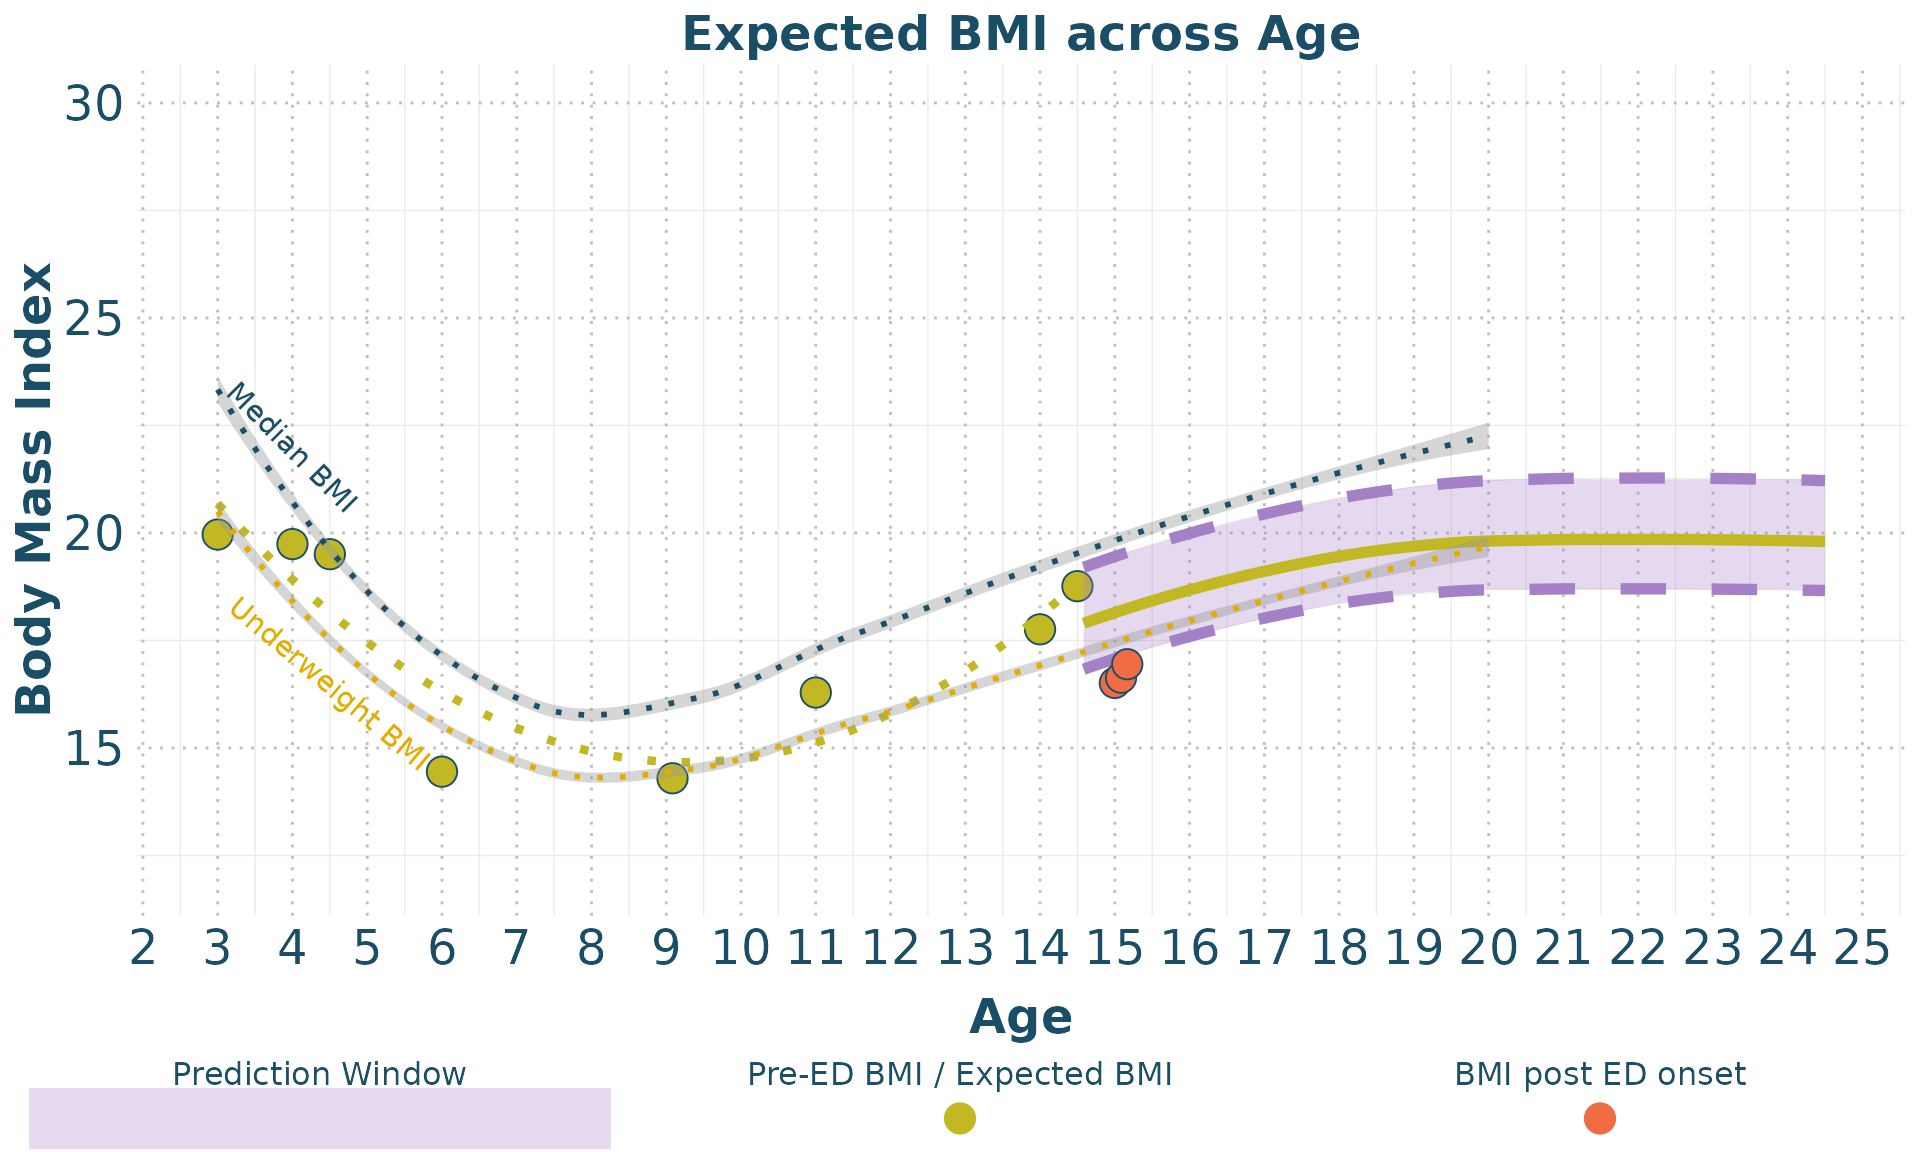
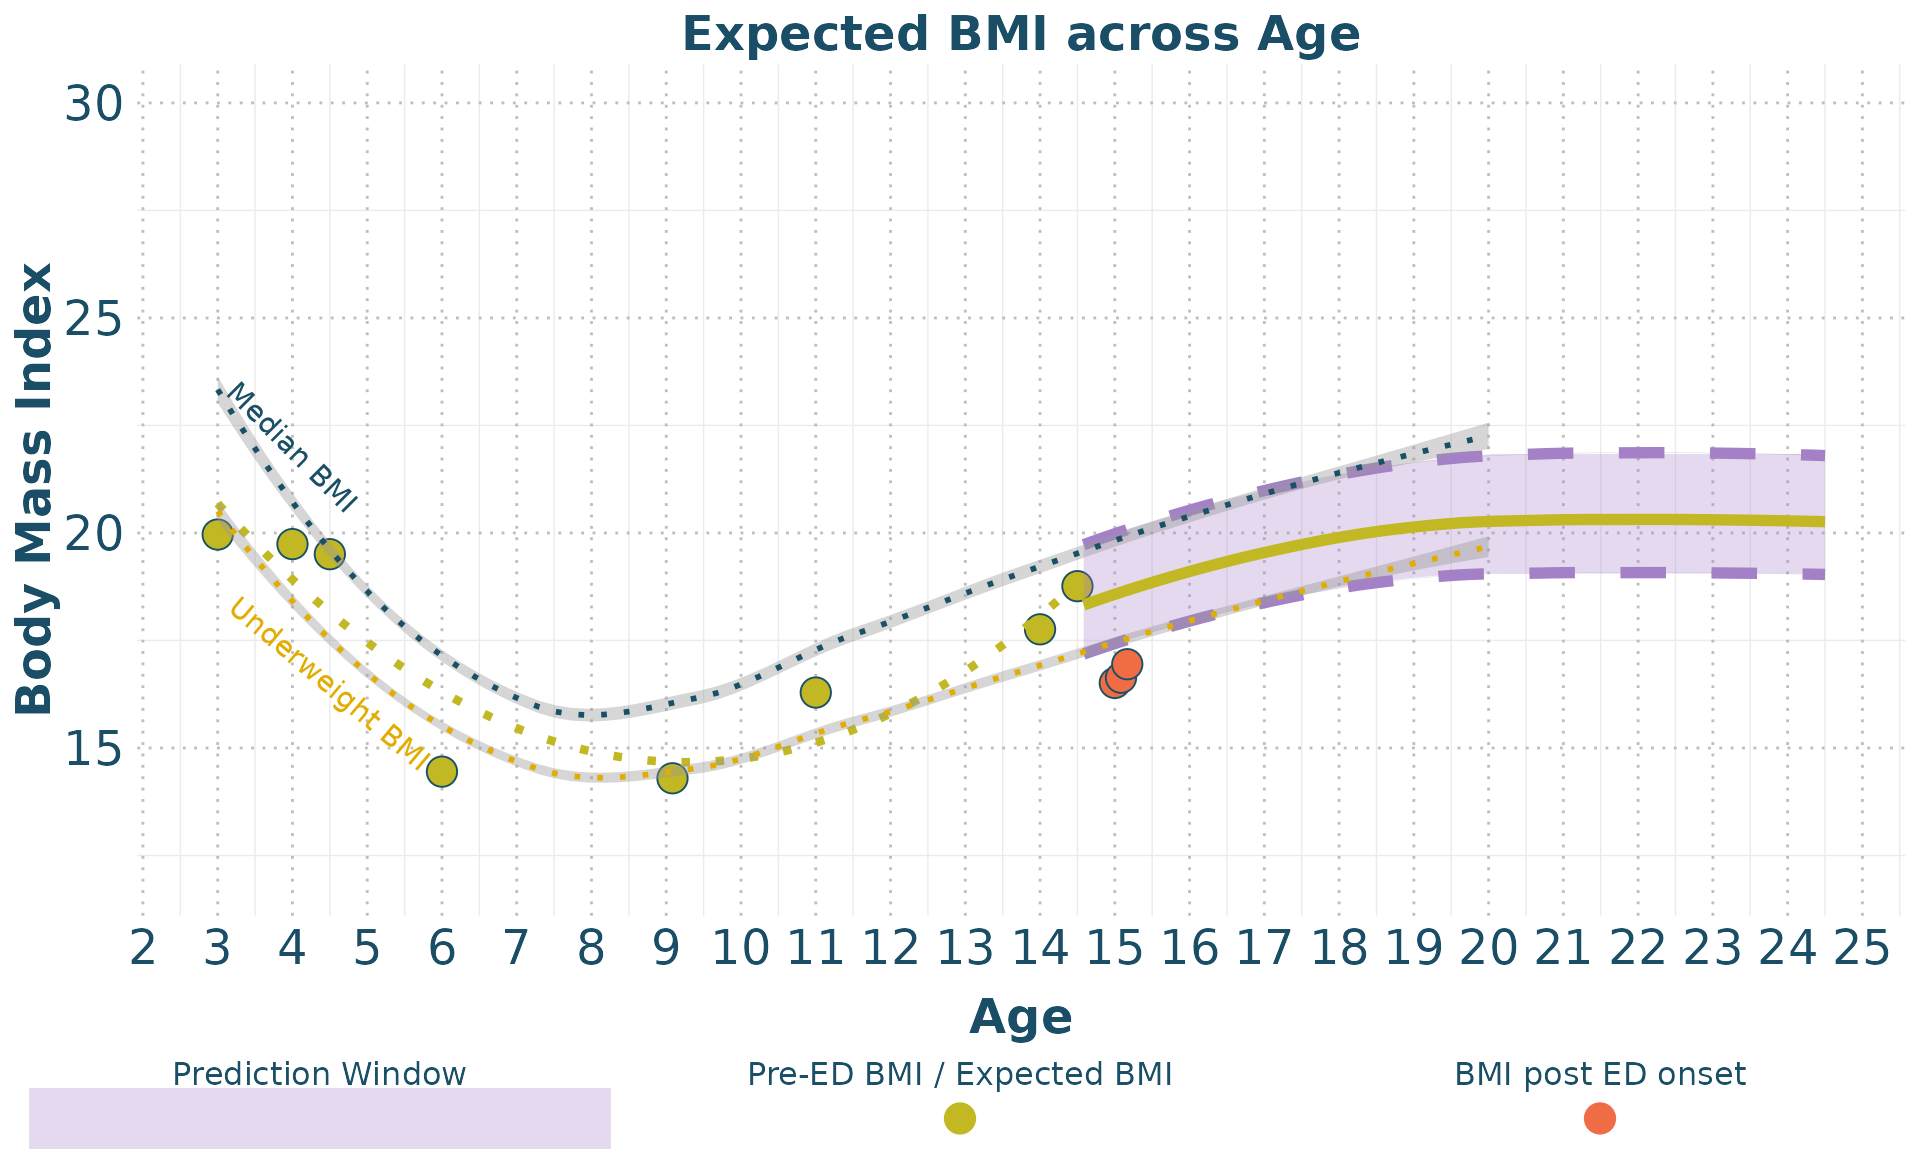
Deploying to gh-pages from @ embark-lab/TeenGrowth@1974166ebf40d8561dedec405221f64b2254ccdf 🚀

Changed region(s): [[0.5625, 0.375, 0.9688, 0.5938]]

diff --git a/articles/Vignette.html b/articles/Vignette.html
@@ -106,7 +106,7 @@ interval.</p>
 <div class="sourceCode" id="cb2"><pre class="downlit sourceCode r">
 <code class="sourceCode R"><span><span class="va">BMI_forecast</span> <span class="op">&lt;-</span> <span class="fu"><a href="../reference/forecast_bmi.html">forecast_bmi</a></span><span class="op">(</span></span>
 <span>             data <span class="op">=</span> <span class="va">clean_data</span>, </span>
-<span>             central_value <span class="op">=</span> <span class="st">"mean"</span>,</span>
+<span>             central_value <span class="op">=</span> <span class="st">"mean+most_recent"</span>,</span>
 <span>             ci <span class="op">=</span> <span class="fl">95</span><span class="op">)</span></span></code></pre></div>
 </div>
 <div class="section level3">
@@ -148,123 +148,123 @@ age intervals) for expected BMI and Weight</p>
 <tbody>
 <tr class="odd">
 <td align="right">15.0</td>
-<td align="left">18.2 (17.1, 19.5)</td>
-<td align="left">119.4 (112.4, 128)</td>
-<td align="left">54.2 (51, 58.1)</td>
+<td align="left">18.6 (17.4, 20)</td>
+<td align="left">122.2 (114.7, 131.5)</td>
+<td align="left">55.4 (52, 59.6)</td>
 </tr>
 <tr class="even">
 <td align="right">15.5</td>
-<td align="left">18.4 (17.3, 19.7)</td>
-<td align="left">121.1 (114, 129.7)</td>
-<td align="left">54.9 (51.7, 58.9)</td>
+<td align="left">18.8 (17.7, 20.3)</td>
+<td align="left">123.9 (116.4, 133.3)</td>
+<td align="left">56.2 (52.8, 60.4)</td>
 </tr>
 <tr class="odd">
 <td align="right">16.0</td>
-<td align="left">18.7 (17.6, 20)</td>
-<td align="left">122.7 (115.6, 131.4)</td>
-<td align="left">55.7 (52.4, 59.6)</td>
+<td align="left">19.1 (17.9, 20.5)</td>
+<td align="left">125.6 (117.9, 134.9)</td>
+<td align="left">57 (53.5, 61.2)</td>
 </tr>
 <tr class="even">
 <td align="right">16.5</td>
-<td align="left">18.9 (17.8, 20.2)</td>
-<td align="left">124.2 (117.1, 133)</td>
-<td align="left">56.3 (53.1, 60.3)</td>
+<td align="left">19.3 (18.2, 20.8)</td>
+<td align="left">127.1 (119.4, 136.5)</td>
+<td align="left">57.6 (54.2, 61.9)</td>
 </tr>
 <tr class="odd">
 <td align="right">17.0</td>
-<td align="left">19.1 (18, 20.4)</td>
-<td align="left">125.6 (118.4, 134.4)</td>
-<td align="left">57 (53.7, 61)</td>
+<td align="left">19.5 (18.4, 21)</td>
+<td align="left">128.5 (120.8, 138)</td>
+<td align="left">58.3 (54.8, 62.6)</td>
 </tr>
 <tr class="even">
 <td align="right">17.5</td>
-<td align="left">19.3 (18.2, 20.6)</td>
-<td align="left">126.9 (119.7, 135.7)</td>
-<td align="left">57.5 (54.3, 61.5)</td>
+<td align="left">19.7 (18.6, 21.2)</td>
+<td align="left">129.7 (122, 139.3)</td>
+<td align="left">58.9 (55.4, 63.2)</td>
 </tr>
 <tr class="odd">
 <td align="right">18.0</td>
-<td align="left">19.5 (18.4, 20.8)</td>
-<td align="left">128 (120.7, 136.8)</td>
-<td align="left">58 (54.8, 62.1)</td>
+<td align="left">19.9 (18.7, 21.4)</td>
+<td align="left">130.9 (123.1, 140.5)</td>
+<td align="left">59.4 (55.8, 63.7)</td>
 </tr>
 <tr class="even">
 <td align="right">18.5</td>
-<td align="left">19.6 (18.5, 21)</td>
-<td align="left">128.9 (121.6, 137.8)</td>
-<td align="left">58.5 (55.2, 62.5)</td>
+<td align="left">20 (18.9, 21.5)</td>
+<td align="left">131.8 (124, 141.5)</td>
+<td align="left">59.8 (56.3, 64.2)</td>
 </tr>
 <tr class="odd">
 <td align="right">19.0</td>
-<td align="left">19.7 (18.6, 21.1)</td>
-<td align="left">129.6 (122.3, 138.6)</td>
-<td align="left">58.8 (55.5, 62.9)</td>
+<td align="left">20.2 (19, 21.6)</td>
+<td align="left">132.5 (124.7, 142.3)</td>
+<td align="left">60.1 (56.6, 64.6)</td>
 </tr>
 <tr class="even">
 <td align="right">19.5</td>
-<td align="left">19.8 (18.7, 21.2)</td>
-<td align="left">130.1 (122.7, 139.3)</td>
-<td align="left">59 (55.7, 63.2)</td>
+<td align="left">20.2 (19, 21.7)</td>
+<td align="left">133.1 (125.2, 143)</td>
+<td align="left">60.4 (56.8, 64.9)</td>
 </tr>
 <tr class="odd">
 <td align="right">20.0</td>
-<td align="left">19.8 (18.7, 21.2)</td>
-<td align="left">130.4 (122.9, 139.7)</td>
-<td align="left">59.1 (55.7, 63.4)</td>
+<td align="left">20.3 (19.1, 21.8)</td>
+<td align="left">133.4 (125.3, 143.6)</td>
+<td align="left">60.5 (56.9, 65.1)</td>
 </tr>
 <tr class="even">
 <td align="right">20.5</td>
-<td align="left">19.8 (18.7, 21.2)</td>
-<td align="left">130.4 (122.9, 139.8)</td>
-<td align="left">59.2 (55.7, 63.4)</td>
+<td align="left">20.3 (19.1, 21.8)</td>
+<td align="left">133.5 (125.4, 143.6)</td>
+<td align="left">60.5 (56.9, 65.1)</td>
 </tr>
 <tr class="odd">
 <td align="right">21.0</td>
-<td align="left">19.8 (18.7, 21.2)</td>
-<td align="left">130.4 (122.9, 139.8)</td>
-<td align="left">59.2 (55.7, 63.4)</td>
+<td align="left">20.3 (19.1, 21.8)</td>
+<td align="left">133.5 (125.4, 143.6)</td>
+<td align="left">60.5 (56.9, 65.1)</td>
 </tr>
 <tr class="even">
 <td align="right">21.5</td>
-<td align="left">19.8 (18.7, 21.2)</td>
-<td align="left">130.4 (122.9, 139.8)</td>
-<td align="left">59.2 (55.7, 63.4)</td>
+<td align="left">20.3 (19.1, 21.8)</td>
+<td align="left">133.5 (125.4, 143.6)</td>
+<td align="left">60.5 (56.9, 65.1)</td>
 </tr>
 <tr class="odd">
 <td align="right">22.0</td>
-<td align="left">19.8 (18.7, 21.2)</td>
-<td align="left">130.4 (122.9, 139.8)</td>
-<td align="left">59.2 (55.7, 63.4)</td>
+<td align="left">20.3 (19.1, 21.8)</td>
+<td align="left">133.5 (125.4, 143.6)</td>
+<td align="left">60.5 (56.9, 65.1)</td>
 </tr>
 <tr class="even">
 <td align="right">22.5</td>
-<td align="left">19.8 (18.7, 21.2)</td>
-<td align="left">130.4 (122.9, 139.8)</td>
-<td align="left">59.2 (55.7, 63.4)</td>
+<td align="left">20.3 (19.1, 21.8)</td>
+<td align="left">133.5 (125.4, 143.6)</td>
+<td align="left">60.5 (56.9, 65.1)</td>
 </tr>
 <tr class="odd">
 <td align="right">23.0</td>
-<td align="left">19.8 (18.7, 21.2)</td>
-<td align="left">130.4 (122.9, 139.8)</td>
-<td align="left">59.2 (55.7, 63.4)</td>
+<td align="left">20.3 (19.1, 21.8)</td>
+<td align="left">133.5 (125.4, 143.6)</td>
+<td align="left">60.5 (56.9, 65.1)</td>
 </tr>
 <tr class="even">
 <td align="right">23.5</td>
-<td align="left">19.8 (18.7, 21.2)</td>
-<td align="left">130.4 (122.9, 139.8)</td>
-<td align="left">59.2 (55.7, 63.4)</td>
+<td align="left">20.3 (19.1, 21.8)</td>
+<td align="left">133.5 (125.4, 143.6)</td>
+<td align="left">60.5 (56.9, 65.1)</td>
 </tr>
 <tr class="odd">
 <td align="right">24.0</td>
-<td align="left">19.8 (18.7, 21.2)</td>
-<td align="left">130.4 (122.9, 139.8)</td>
-<td align="left">59.2 (55.7, 63.4)</td>
+<td align="left">20.3 (19.1, 21.8)</td>
+<td align="left">133.5 (125.4, 143.6)</td>
+<td align="left">60.5 (56.9, 65.1)</td>
 </tr>
 <tr class="even">
 <td align="right">24.5</td>
-<td align="left">19.8 (18.7, 21.2)</td>
-<td align="left">130.4 (122.9, 139.8)</td>
-<td align="left">59.2 (55.7, 63.4)</td>
+<td align="left">20.3 (19.1, 21.8)</td>
+<td align="left">133.5 (125.4, 143.6)</td>
+<td align="left">60.5 (56.9, 65.1)</td>
 </tr>
 </tbody>
 </table>
